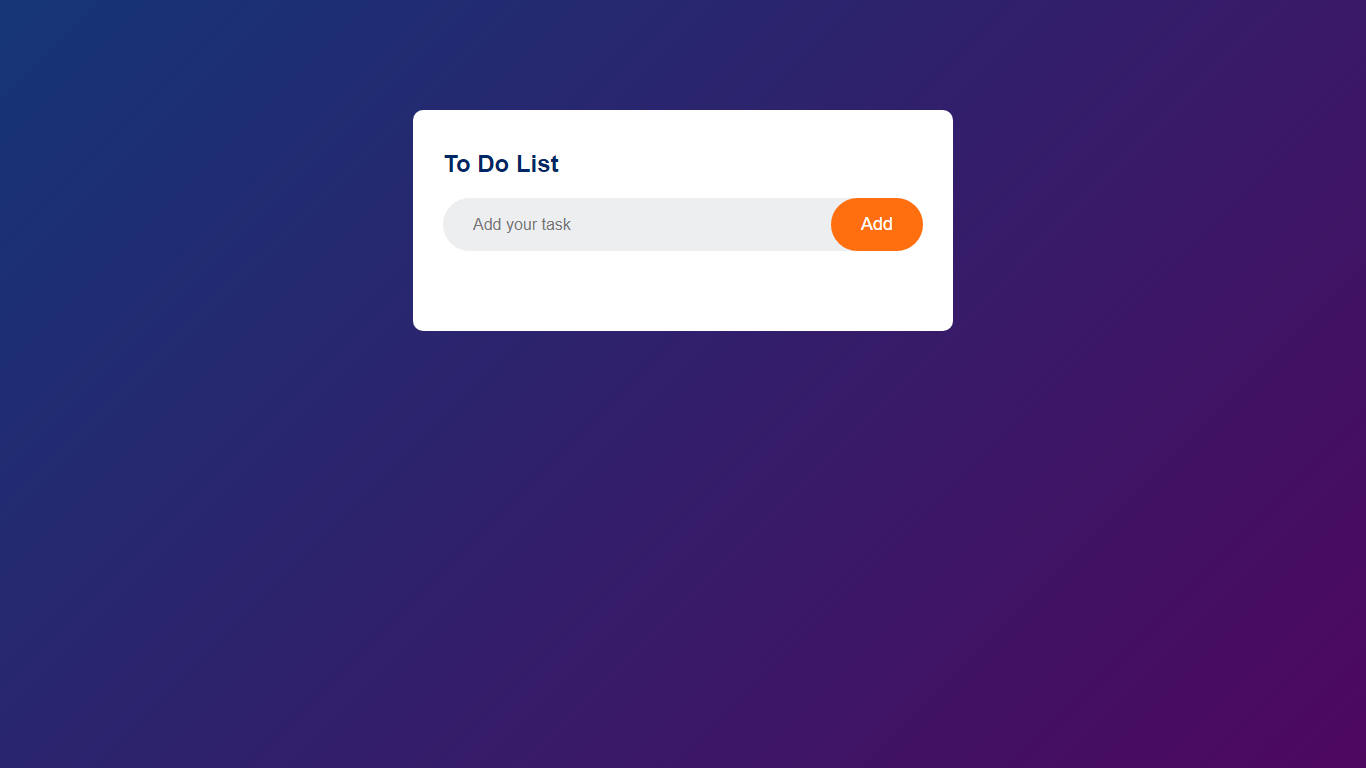
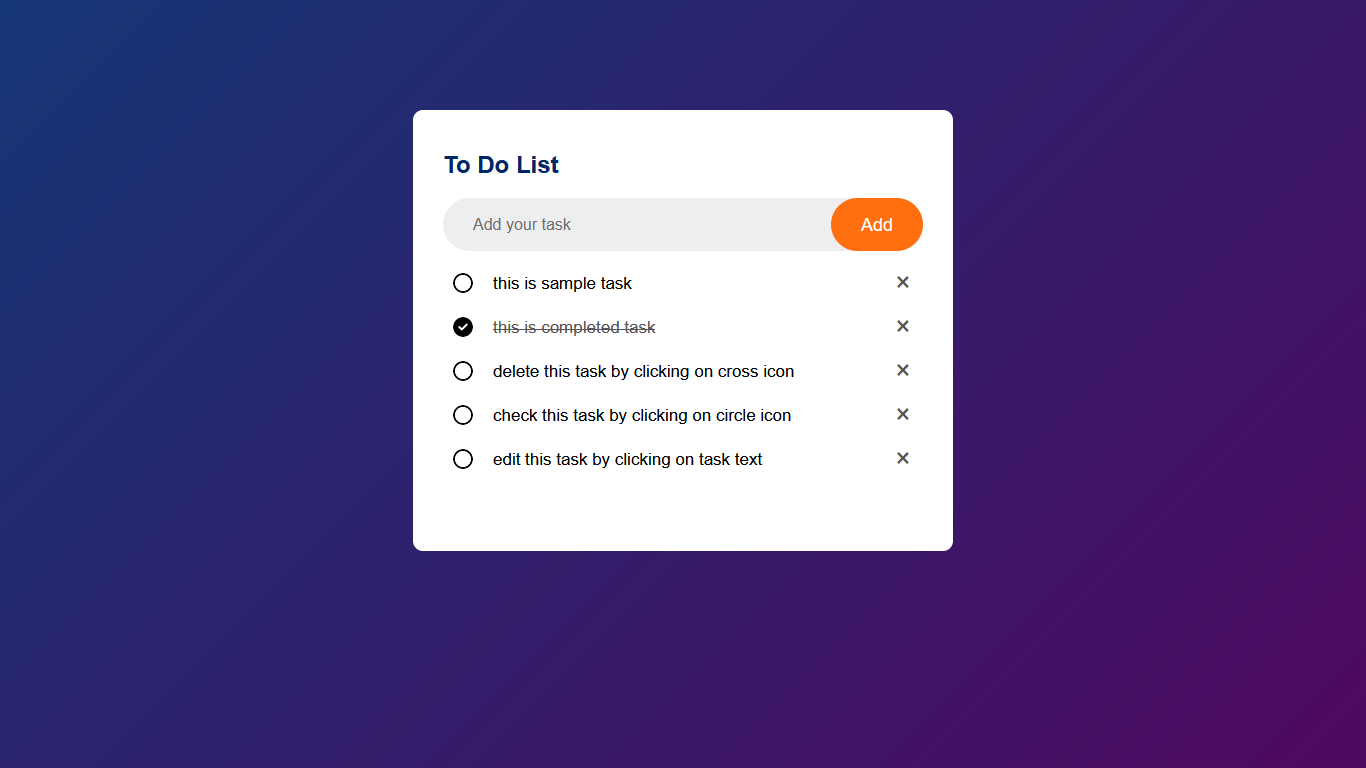
Responsive successful and edit feature complete

diff --git a/script.js b/script.js
@@ -3,17 +3,21 @@ const listContainer = document.getElementById('list-container');
 const errorBox = document.getElementById('error-box')
 
 function addTask() {
+    document.getElementById("btn").innerHTML = "Add";
     if (inputBox.value === '') {
         errorBox.innerHTML = "You must write something!";
-        setTimeout(function(){
-            errorBox.innerHTML = ""  
-        },1500)
+        setTimeout(function () {
+            errorBox.innerHTML = ""
+        }, 1500)
     }
     else {
         let li = document.createElement("li");
-        li.innerHTML = inputBox.value;
+        let para = document.createElement("p");
+        para.innerHTML = inputBox.value;
+        li.appendChild(para);
         listContainer.appendChild(li);
         let span = document.createElement("span");
+        span.setAttribute("id", "delete");
         span.innerHTML = "\u00d7"; //cross sign
         li.appendChild(span);
         saveData();
@@ -31,6 +35,11 @@ listContainer.addEventListener("click", function (e) {
         e.target.classList.toggle("checked");
     }
     else if (e.target.tagName === "SPAN") {
+        e.target.parentElement.remove();
+    }
+    else if(e.target.tagName === "P"){
+        inputBox.value = e.target.textContent;
+        document.getElementById("btn").innerHTML = "Edit";
         e.target.parentElement.remove();
     }
     saveData();

diff --git a/style.css b/style.css
@@ -11,7 +11,6 @@
     background: linear-gradient(135deg, #153677, #4e085f);
     padding: 10px;
 }
-
 .todo-app {
     width: 100%;
     max-width: 540px;
@@ -93,12 +92,14 @@ ul li.checked {
 ul li.checked::before {
     background-image: url(assets/circle-check-solid.svg);
 }
-
-ul li span {
-    visibility: hidden;
+p{
+    /* font-family: 'Alegreya Sans', sans-serif; */
+    width: 90%;
+}
+#delete{
     position: absolute;
     right: 0;
-    top: 5px;
+    top: 1px;
     width: 40px;
     height: 40px;
     font-size: 27px;
@@ -107,9 +108,6 @@ ul li span {
     text-align: center;
     border-radius: 50%;
 }
-ul li:hover span{
-    visibility: visible;
-}
-ul li span:hover {
+#delete:hover {
     background: #edeef0;
 }

diff --git a/responsive.css b/responsive.css
@@ -1,0 +1,22 @@
+@media only screen and (max-width:400px) {
+    #btn {
+        padding: 8px 15px;
+        position: absolute;
+        bottom: 8px;
+        font-size: medium;
+        right: 8px;
+    }
+
+    #list-row {
+        border-radius: 15px;
+        height: 12vh;
+        position: relative;
+        display: block;
+        padding: 10px 15px;
+    }
+
+    #input-box {
+        font-size: large;
+        width: 100%;
+    }
+}

diff --git a/README.md b/README.md
@@ -43,7 +43,7 @@ You can see a live demo of the To-Do List application [here](https://to-do-list-
 
 ## Screenshots
 
-<img align="left" alt="Screenshot 1" width="300" src="assets/Screenshot 1.png"><img alt="Screenshot 2" width="300" src="assets/Screenshot 2.png">
+<img align="left" alt="Screenshot 1" width="300" src="assets/Screenshot 1.png"><img alt="Screenshot 2" width="300" src="assets/Screenshot 2.png"><img alt="Screenshot 3" width="300" src="assets/Screenshot 3.png">
 
 ## Getting Started
 
@@ -66,7 +66,7 @@ To run the To-Do List application locally, follow these steps:
 
 4. To remove a task, click on the "Delete" button next to the task.
 
-5. To edit a task, simply click on the "Edit" button next to the task and submit after editing.
+5. To edit a task, simply click on the text of the task, after editing click on the "Edit" button to submit.
 
 Feel free to customize and extend it to meet your specific needs.
 
